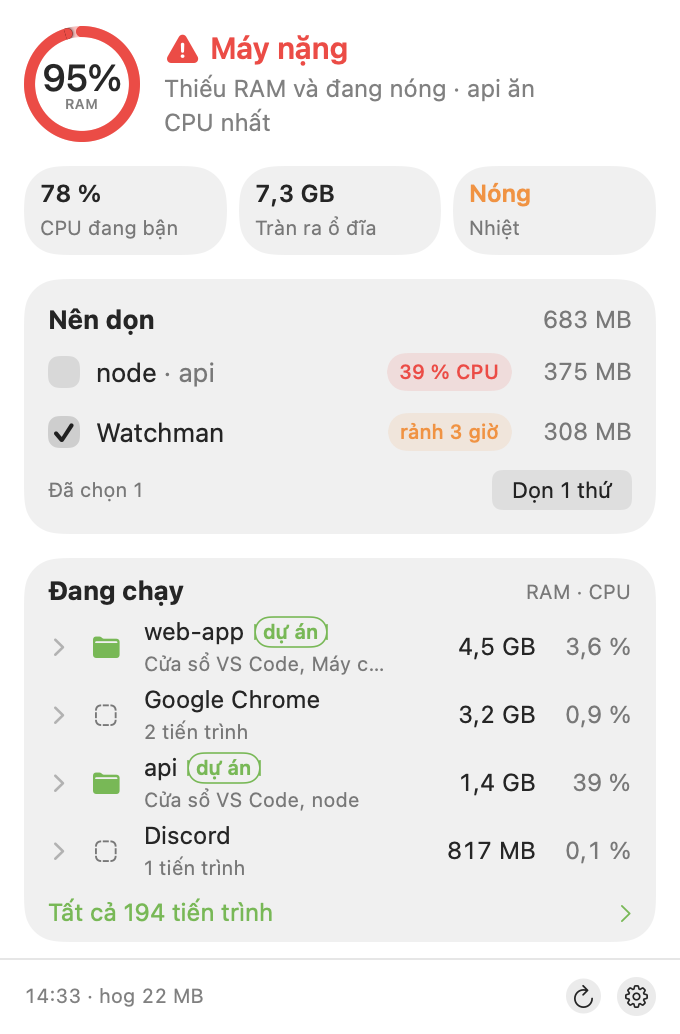
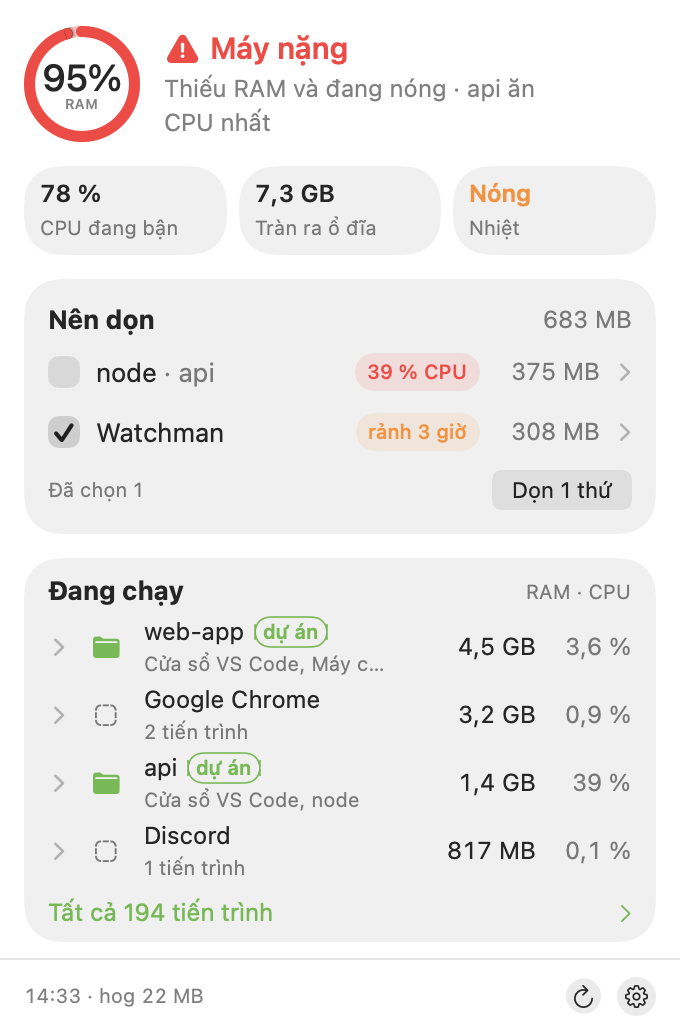
feat(app): open a suggestion to see what it is and why
- tapping a 'Nên dọn' line opens the thing: what it is (catalog), what it runs (cleaned
  like 'Copy info'), why it is suggested, what stopping does
- lines only a person closes show their reason too; 'How to close' is on the page
- nothing its parent starts again at once is suggested (VS Code's GPU process): stopping
  it frees nothing
- CPU in reason sentences is the whole machine's share, like every screen

Changed region(s): [[0.525, 0.3404, 0.9265, 0.3714], [0.5559, 0.4023, 0.9265, 0.4333]]

diff --git a/Sources/HogBar/Components.swift b/Sources/HogBar/Components.swift
@@ -101,34 +101,21 @@ struct Explanation: View {
     }
 }
 
-/// A short reason in a capsule; tapping it says the whole reason.
+/// A short reason in a capsule ("rảnh 3 giờ", "27 % CPU"); the whole reason is on the thing's page.
 struct ReasonTag: View {
-    @EnvironmentObject var model: HogModel
     let c: Overview.Cleanup
-    @State private var explain = false
 
     var body: some View {
-        Button { explain.toggle() } label: {
-            Text(c.why).font(.caption.weight(.medium)).monospacedDigit()
-                .foregroundStyle(c.whyKind == .idle ? Color.orange : Color.red)
-                .padding(.horizontal, 6).padding(.vertical, 2)
-                .background((c.whyKind == .idle ? Color.orange : Color.red).opacity(0.12), in: Capsule())
-        }
-        .buttonStyle(.plain)
-        .popover(isPresented: $explain, arrowEdge: .bottom) {
-            VStack(alignment: .leading, spacing: 6) {
-                Text(c.name).font(.headline)
-                if let f = model.snapshot?.findings.first(where: { $0.itemId == c.itemId }) {
-                    Text(f.reason)
-                    Text(f.stop.effect).foregroundStyle(.secondary)
-                }
-            }
-            .font(.callout).fixedSize(horizontal: false, vertical: true).frame(width: 280, alignment: .leading).padding(Theme.s3)
-        }
+        Text(c.why).font(.caption.weight(.medium)).monospacedDigit()
+            .foregroundStyle(c.whyKind == .idle ? Color.orange : Color.red)
+            .padding(.horizontal, 6).padding(.vertical, 2)
+            .background((c.whyKind == .idle ? Color.orange : Color.red).opacity(0.12), in: Capsule())
     }
 }
 
-/// One line of "Nên dọn": check box · name · project · reason · RAM.
+/// One line of "Nên dọn": check box (or a hand: only a person closes it) · name · project · reason · RAM · ›.
+/// Tapping the line opens the thing: what it is, what it runs, why it is suggested, what stopping does (user 2026-10-27:
+/// "nhấn vào để xem chi tiết nó đang chạy gì thì mới biết để ra quyết định có tắt hay không").
 struct CleanupRow: View {
     @EnvironmentObject var model: HogModel
     let c: Overview.Cleanup
@@ -137,24 +124,30 @@ struct CleanupRow: View {
         HStack(spacing: Theme.s2) {
             if c.manual {
                 Image(systemName: "hand.raised").foregroundStyle(.secondary).frame(width: 16)
+                    .help(model.t("Chỉ bạn đóng được thứ này — mở để xem cách đóng", "Only you can close this — open it to see how"))
             } else {
                 Toggle("", isOn: Binding(get: { model.selected.contains(c.itemId) },
                                          set: { if $0 { model.selected.insert(c.itemId) } else { model.selected.remove(c.itemId) } }))
                     .toggleStyle(.checkbox).labelsHidden()
                     .accessibilityLabel(c.name)
             }
-            Text("\(c.name)\(Text(c.project.map { " · \($0)" } ?? "").foregroundStyle(.secondary))")
-                .lineLimit(1).truncationMode(.tail)
-            Spacer(minLength: 4)
-            if c.manual {
-                Button(model.t("Cách đóng", "How to close")) { model.prepareStop(c.itemId) }.buttonStyle(.link).font(.caption)
-            } else {
-                ReasonTag(c: c)
+            Button { model.open(c) } label: {
+                HStack(spacing: Theme.s2) {
+                    Text("\(c.name)\(Text(c.project.map { " · \($0)" } ?? "").foregroundStyle(.secondary))")
+                        .lineLimit(1).truncationMode(.tail)
+                    Spacer(minLength: 4)
+                    ReasonTag(c: c)
+                    Text(c.bytes.map { Format.bytes($0, model.lang) } ?? "–").font(.callout).monospacedDigit().foregroundStyle(.secondary)
+                        .frame(minWidth: 52, alignment: .trailing)
+                    Image(systemName: "chevron.right").font(.caption2.weight(.semibold)).foregroundStyle(.tertiary)
+                }
+                .frame(minHeight: 26)
+                .contentShape(Rectangle())
             }
-            Text(c.bytes.map { Format.bytes($0, model.lang) } ?? "–").font(.callout).monospacedDigit().foregroundStyle(.secondary)
-                .frame(minWidth: 52, alignment: .trailing)
+            .buttonStyle(.plain)
+            .hoverRow()
+            .accessibilityHint(model.t("Mở để xem nó là gì và vì sao nên dọn", "Opens what it is and why to clean it up"))
         }
-        .frame(minHeight: 26)
     }
 }
 

diff --git a/Sources/HogBar/Pages.swift b/Sources/HogBar/Pages.swift
@@ -103,7 +103,7 @@ struct MainPage: View {
                 Text(model.t("Đã chọn \(n)", "\(n) selected")).font(.caption).foregroundStyle(.secondary)
                 Spacer()
                 // Opens the confirmation; the red "Dọn" that stops things is in there.
-                Button(model.t("Dọn \(n) thứ", n == 1 ? "Clean up 1" : "Clean up \(n)")) { model.prepareBatch() }
+                Button(n == 0 ? model.t("Dọn", "Clean up") : model.t("Dọn \(n) thứ", n == 1 ? "Clean up 1" : "Clean up \(n)")) { model.prepareBatch() }
                     .glassButton(prominent: true).controlSize(.small).disabled(n == 0)
             }
             .padding(.top, 2) }
@@ -163,6 +163,8 @@ struct EntryPage: View {
     @EnvironmentObject var model: HogModel
     let groupId: String
     let entryId: String
+    /// What it runs (cleaned like "Chép thông tin"); read when the page opens, not on every redraw.
+    @State private var command: String?
 
     var body: some View {
         VStack(alignment: .leading, spacing: Theme.s3) {
@@ -175,19 +177,27 @@ struct EntryPage: View {
                     }
                     Text(subtitle(g, e)).font(.callout).foregroundStyle(.secondary).fixedSize(horizontal: false, vertical: true)
                 }
+                if let what = e.summary { Text(what).font(.callout).fixedSize(horizontal: false, vertical: true) }
                 Grid(alignment: .leading, horizontalSpacing: Theme.s3, verticalSpacing: 4) {
                     row("RAM", e.bytes.map { Format.bytes($0, model.lang) } ?? "–")
                     row("CPU", e.cpu.map { Format.percent($0, model.lang) + model.t(" của cả máy", " of the machine") } ?? "–")
                     if e.pids.count > 1 { row(model.t("Tiến trình", "Processes"), "\(e.pids.count)") }
                     if let age = age(e) { row(model.t("Đã chạy", "Running for"), Format.duration(age, model.lang)) }
                     if !e.detail.isEmpty { row(model.t("Mạng", "Network"), e.detail) }
+                    if let command {
+                        GridRow(alignment: .firstTextBaseline) {
+                            Text(model.t("Lệnh", "Runs")).foregroundStyle(.secondary)
+                            Text(command).font(.caption.monospaced()).lineLimit(3).truncationMode(.tail).textSelection(.enabled)
+                        }
+                    }
                 }
                 .font(.callout)
                 .padding(Theme.s3).frame(maxWidth: .infinity, alignment: .leading).module()
                 if let f = e.itemId.flatMap({ id in model.snapshot?.findings.first { $0.itemId == id } }) {
                     VStack(alignment: .leading, spacing: 4) {
+                        Text(e.cleanup != nil ? model.t("Vì sao nên dọn", "Why clean it up") : model.t("hog thấy", "hog noticed")).font(.headline)
                         Text(f.reason)
-                        Text(f.stop.effect).foregroundStyle(.secondary)
+                        Text(model.t("Tắt thì sao: ", "If stopped: ") + f.stop.effect).foregroundStyle(.secondary)
                     }
                     .font(.callout).fixedSize(horizontal: false, vertical: true)
                 }
@@ -199,6 +209,7 @@ struct EntryPage: View {
             Spacer(minLength: 0)
         }
         .padding(Theme.s3)
+        .task(id: entryId) { command = model.entry(groupId, entryId).flatMap(model.command) }
     }
 
     func subtitle(_ g: Overview.Group, _ e: Overview.Entry) -> String {

diff --git a/Sources/HogCore/Running.swift b/Sources/HogCore/Running.swift
@@ -44,6 +44,8 @@ public struct Overview: Sendable, Equatable {
         /// Not in the catalog and not part of an app: hog does not know what it is ("?", copy info to ask).
         public var unknown: Bool
         public var cleanup: Cleanup?
+        /// What it is, in one sentence of the catalog ("Vẽ đồ hoạ bằng GPU cho mọi cửa sổ VS Code."); nil when hog does not know.
+        public var summary: String? = nil
     }
 
     public struct Group: Sendable, Equatable, Identifiable {
@@ -119,10 +121,13 @@ public struct Overview: Sendable, Equatable {
             return nil
         }
 
-        // Nên dọn: every may-stop / ask / watch finding, may-stop first, biggest first.
+        // Nên dọn: every may-stop / ask / watch finding, may-stop first, biggest first. Not what its parent starts again at once
+        // (VS Code's GPU process): stopping it gives nothing back, whatever it holds (user 2026-10-27, a "dormant-large" GPU
+        // process in the list with no reason to act on).
         let order: [Verdict] = [.mayStop, .ask, .watch]
         let procOfItem = Dictionary(s.processes.compactMap { p in p.itemId.value.map { ($0, p) } }, uniquingKeysWith: { a, _ in a })
-        let cleanups = s.findings.filter { order.contains($0.verdict) }.compactMap { f -> Cleanup? in
+        func givesBack(_ f: Finding) -> Bool { f.verdict == .mayStop || f.stop.respawns.value != .byParent }
+        let cleanups = s.findings.filter { order.contains($0.verdict) && givesBack($0) }.compactMap { f -> Cleanup? in
             guard let item = items[f.itemId] else { return nil }
             let proc = procOfItem[f.itemId]
             let project = proc?.project.value ?? ownerProject(item.ownerId.value)
@@ -169,7 +174,8 @@ public struct Overview: Sendable, Equatable {
                 detail: port.map { t("cổng \($0)", "port \($0)") } ?? "", bytes: nil, cpu: nil, pids: [], itemId: item?.id,
                 // Not in the catalog and not explained by an app (a Chrome helper is Chrome): something to ask about.
                 unknown: catalogName == nil && kind != .app && Self.isUnknownProgram(p),
-                cleanup: item.flatMap { cleanupOf[$0.id] })
+                cleanup: item.flatMap { cleanupOf[$0.id] },
+                summary: (p.catalogId.value ?? item?.catalogId.value).flatMap { catalog.entries[$0]?.summary.text(lang) })
             e.pids.append(p.pid)
             if let b = p.footprintBytes.value { e.bytes = (e.bytes ?? 0) + b }
             if let c = p.cpu.nowPct.value { e.cpu = (e.cpu ?? 0) + c }

diff --git a/Sources/HogBar/HogModel.swift b/Sources/HogBar/HogModel.swift
@@ -128,6 +128,17 @@ final class HogModel: ObservableObject {
 
     func entry(_ group: String, _ entry: String) -> Overview.Entry? { self.group(group)?.entries.first { $0.id == entry } }
 
+    /// A "Nên dọn" line was tapped: its line in "Đang chạy" (numbers, what it is, why), else its stop sheet (a container has
+    /// no process line).
+    func open(_ c: Overview.Cleanup) {
+        let match: (Overview.Entry) -> Bool = { $0.id == c.itemId || $0.itemId == c.itemId }
+        if let g = overview?.groups.first(where: { $0.entries.contains(where: match) }), let e = g.entries.first(where: match) {
+            page = .entry(group: g.id, entry: e.id)
+        } else {
+            prepareStop(c.itemId)
+        }
+    }
+
     func toggle(_ group: String) {
         if expanded.contains(group) { expanded.remove(group) } else { expanded.insert(group) }
     }
@@ -212,12 +223,19 @@ final class HogModel: ObservableObject {
 
     /// "Chép thông tin": `hog.share/1` to the clipboard, to paste into a chat with Claude. hog sends nothing.
     func copyShare(_ e: Overview.Entry) {
-        guard let scan else { return }
-        let item = e.itemId.flatMap { id in snapshot?.items.first { $0.id == id } } ?? e.pids.first.flatMap { analyzer.item(forPid: $0, in: scan) }
-        guard let item else { return }
+        guard let info = shareInfo(e) else { return }
         NSPasteboard.general.clearContents()
-        NSPasteboard.general.setString(ShareInfo.make(item, scan: scan).text(lang), forType: .string)
+        NSPasteboard.general.setString(info.text(lang), forType: .string)
         copied = e.id
+    }
+
+    /// What an entry runs, cleaned like "Chép thông tin" (no directories, users, hosts or secrets): safe in a screenshot.
+    func command(_ e: Overview.Entry) -> String? { shareInfo(e)?.item.args }
+
+    private func shareInfo(_ e: Overview.Entry) -> ShareInfo? {
+        guard let scan else { return nil }
+        let item = e.itemId.flatMap { id in snapshot?.items.first { $0.id == id } } ?? e.pids.first.flatMap { analyzer.item(forPid: $0, in: scan) }
+        return item.map { ShareInfo.make($0, scan: scan) }
     }
 
     // MARK: System detail

diff --git a/Sources/HogCore/Analyzer.swift b/Sources/HogCore/Analyzer.swift
@@ -126,7 +126,7 @@ public struct Analyzer: Sendable {
             let outcome = RuleEngine.run(rules.rules, kind: items[i].kind, facts: items[i].facts)
             items[i].protection = Measured(outcome.protection)
             guard let verdict = outcome.verdict else { continue }
-            findings.append(finding(for: items[i], outcome: outcome, verdict: verdict))
+            findings.append(finding(for: items[i], outcome: outcome, verdict: verdict, ncpu: scan.system.ncpu))
         }
         findings.sort { a, b in
             if a.verdict != b.verdict { return rank(a.verdict) > rank(b.verdict) }
@@ -325,8 +325,14 @@ public struct Analyzer: Sendable {
 
     // MARK: Findings
 
-    func finding(for item: Item, outcome: RuleEngine.Outcome, verdict: Verdict) -> Finding {
-        let reason = outcome.fired.compactMap { $0.reason.text(lang) }.map { Format.fill($0, facts: item.facts, lang: lang) }
+    func finding(for item: Item, outcome: RuleEngine.Outcome, verdict: Verdict, ncpu: Int) -> Finding {
+        // Sentences say CPU as a share of the whole machine, like every screen ("11 %", not 88 % of one core); facts and
+        // evidence keep % of one core.
+        var machine: [String: String] = [:]
+        for k in ["cpu.now_pct", "cpu.avg_pct"] {
+            if let x = item.facts[k]?.number { machine[k.replacingOccurrences(of: "_pct", with: "_machine")] = Format.percent(x / Double(max(1, ncpu)), lang) }
+        }
+        let reason = outcome.fired.compactMap { $0.reason.text(lang) }.map { Format.fill($0, facts: item.facts, extra: machine, lang: lang) }
             .joined(separator: " ")
         let used = Set(outcome.fired.flatMap(\.when.facts)).subtracting(FactNames.structural)
         let evidence = item.facts.filter { used.contains($0.key) && !$0.value.isNull }

diff --git a/Tests/HogCoreTests/OverviewTests.swift b/Tests/HogCoreTests/OverviewTests.swift
@@ -164,4 +164,22 @@ import Testing
         #expect(Ownership.appBundle("/Applications/A.app/Contents/MacOS/A") == "/Applications/A.app")
         #expect(Ownership.appName("/usr/bin/zsh") == nil)
     }
+
+    @Test func whatTheParentRestartsIsNotACleanup() {
+        func finding(_ id: String, _ v: Verdict, _ respawns: Respawns) -> Finding {
+            Finding(itemId: id, verdict: v, confidence: .high, rules: ["dormant-large"], reason: "r", evidence: [:], unmeasured: [],
+                    stop: StopAdvice(strategy: .manual, respawns: respawns, effect: "e"))
+        }
+        let items = ["gpu", "tool"].map { Item(id: $0, kind: .process, label: $0, pids: [$0 == "gpu" ? 1 : 2], footprintBytes: Measured(700_000_000)) }
+        let o = Overview.make(snapshot([proc(1, "Code Helper", mb: 700, item: "gpu"), proc(2, "tool", mb: 700, item: "tool")], items: items,
+                                       findings: [finding("gpu", .watch, .byParent), finding("tool", .watch, .never)]), catalog: catalog)
+        #expect(o.cleanups.map(\.itemId) == ["tool"], "VS Code starts its GPU process again at once: stopping it frees nothing")
+    }
+
+    @Test func entriesSayWhatTheyAre() throws {
+        let o = Overview.make(snapshot([proc(1, "watchman", mb: 300, catalogId: "watchman"), proc(2, "mystery", mb: 300)]), catalog: catalog)
+        let entries = o.groups.flatMap(\.entries)
+        #expect(try #require(entries.first { $0.name == "Watchman" }).summary?.isEmpty == false, "from the catalog")
+        #expect(try #require(entries.first { $0.name == "mystery" }).summary == nil, "unknown: no made-up sentence")
+    }
 }

diff --git a/Sources/HogBar/HogBarApp.swift b/Sources/HogBar/HogBarApp.swift
@@ -63,6 +63,10 @@ enum Renderer {
                 write(model, dir, "menu-entry-light")
             }
         }
+        if let c = model.overview?.cleanups.first(where: { $0.whyKind == .heavy }) {
+            model.open(c)
+            write(model, dir, "menu-cleanup-entry-light")
+        }
         model.page = .all
         write(model, dir, "menu-all-light")
         model.page = .main
@@ -159,7 +163,7 @@ enum Renderer {
                 finding(watchman.id, .mayStop, ["watchman-no-subscribers"],
                         vi ? "Watchman chạy 3 giờ, không công cụ nào đăng ký theo dõi." : "Watchman ran 3 hours with no tool subscribed.", .watchmanShutdown),
                 finding(node.id, hot ? .mayStop : .watch, ["cpu-heavy"],
-                        vi ? "Đang dùng \(hot ? 310 : 88) % CPU — một lý do máy nóng." : "Using \(hot ? 310 : 88) % CPU — one reason the machine is hot.", .signal),
+                        vi ? "Đang dùng \(hot ? 39 : 11) % CPU của cả máy — một lý do máy nóng." : "Using \(hot ? 39 : 11) % of the machine's CPU — one reason the machine is hot.", .signal),
             ])
     }
 

diff --git a/Tests/HogCoreTests/CPUThermalTests.swift b/Tests/HogCoreTests/CPUThermalTests.swift
@@ -68,7 +68,8 @@ import Testing
         let tool = s.items.first { $0.pids == [200] }
         let f = s.findings.first { $0.itemId == tool?.id }
         #expect(f?.verdict == .watch && f?.rules.contains("cpu-heavy") == true)
-        #expect(f?.reason.contains("95 %") == true)
+        #expect(f?.reason.contains(Format.percent(95.0 / 8, s.lang) + " of the machine") == true, "the sentence says the whole machine's share")
+        #expect(f?.evidence["cpu.now_pct"]?.number == 95, "evidence keeps % of one core")
         // Not measured (fast mode): the rule does not fire.
         let fast = analyzer.analyze(scan(thermal: .nominal, idle: nil))
         #expect(!fast.findings.contains { $0.rules.contains("cpu-heavy") })

diff --git a/Sources/HogCore/Data/Rules.swift b/Sources/HogCore/Data/Rules.swift
@@ -54,6 +54,10 @@ public enum FactNames {
         "launchd.job",
     ]
 
+    /// Placeholders a reason may use besides facts: the CPU facts as a share of the whole machine (the facts are % of one
+    /// core), so a sentence says the same number as every screen.
+    public static let derived: Set<String> = ["cpu.now_machine", "cpu.avg_machine"]
+
     /// Facts that describe what something *is*, not a measurement of use; they do not add to confidence.
     static let structural: Set<String> = ["catalog.id", "catalog.family", "catalog.detached", "owner.kind", "exe.name",
                                           "exe.system", "exe.macos", "own", "launchd.label", "launchd.job", "self.ancestor", "self.window"]

diff --git a/Tests/HogCoreTests/BundledDataTests.swift b/Tests/HogCoreTests/BundledDataTests.swift
@@ -32,7 +32,7 @@ import Testing
             for text in [r.reason.vi, r.reason.en].compactMap({ $0 }) {
                 for m in text.matches(of: placeholder) {
                     let name = String(text[m.range].dropFirst().dropLast())
-                    #expect(FactNames.all.contains(name), "rule \(r.id) uses unknown placeholder {\(name)}")
+                    #expect(FactNames.all.union(FactNames.derived).contains(name), "rule \(r.id) uses unknown placeholder {\(name)}")
                 }
             }
         }

diff --git a/docs/design/design-system.md b/docs/design/design-system.md
@@ -50,10 +50,10 @@ macos 27"*.
 | --- | --- | --- |
 | `StatusHeader` | `Gauge(.accessoryCircularCapacity)` "73% RAM" + "Máy ổn / hơi nặng / nặng / nóng" + một dòng | vòng → giải nghĩa RAM (kèm phần đã nén) |
 | `MetricChip` ×3 | CPU đang bận · Tràn ra ổ đĩa · Nhiệt | → popover giải nghĩa (thay các nút `?` cũ) |
-| Khối "Nên dọn" | `CleanupRow`: ô chọn · tên · dự án · `ReasonTag` · RAM; nút "Dọn N thứ" | lý do → popover lý do + tắt thì sao; "Dọn N thứ" → `BatchSheet` |
+| Khối "Nên dọn" | `CleanupRow`: ô chọn (hoặc ✋ khi chỉ đóng tay) · tên · dự án · `ReasonTag` · RAM · ›; nút "Dọn N thứ" | cả dòng → `EntryPage` của thứ đó (container không có dòng → hộp dừng); "Dọn N thứ" → `BatchSheet` |
 | `GroupRow` | mũi tên · icon (app thật / `folder.fill` / hệ thống) · tên · tóm tắt · RAM · CPU | mở/gập từng thứ (`EntryRow`) |
 | `EntryRow` | tên · `?` nếu chưa rõ · cổng · `×N` · RAM · CPU | → `EntryPage` |
-| `EntryPage` | số đo, lý do (nếu có đề xuất), "Chép thông tin" (nút chính khi chưa rõ), "Dừng…"/"Cách đóng" (không có ở dòng `×N`) | |
+| `EntryPage` | tên · thuộc đâu · **là gì** (câu của danh mục) · số đo + **Lệnh** (đã làm sạch như "Chép thông tin", chụp gửi được) · **Vì sao nên dọn** + "Tắt thì sao" · "Chép thông tin" (nút chính khi chưa rõ), "Dừng…"/"Cách đóng" (không có ở dòng `×N`) | |
 | `AllPage` | ô tìm + mọi nhóm, mọi thứ; "macOS và hệ thống" → Đo chi tiết | |
 | `BatchSheet` / `StopSheet` | hộp kính (`rSheet`) trên nền tối mờ; tiêu đề có RAM lấy lại; từng thứ: an toàn / hỏi trước (kèm lý do của cổng) / bị chặn | |
 | `Footer` | giờ quét · RAM của hog · `arrow.clockwise` · `gearshape` | |
@@ -65,7 +65,8 @@ macos 27"*.
 - Trạng thái: nặng = áp lực đỏ hoặc nhiệt rất nóng; hơi nặng = áp lực vàng; nóng = nhiệt nóng; "ổn, CPU bận" = CPU cả máy ≥ 80 %.
   Dòng phụ: lý do khi không ổn; khi ổn là việc nên làm ("2 thứ nên dọn · lấy lại 683 MB") hoặc "Không có gì cần dọn".
 - "Nên dọn": có thể tắt (chọn sẵn), hỏi trước và ăn nhiều (chưa chọn); thứ chỉ đóng tay (phiên Claude) có "Cách đóng" thay ô chọn.
-  Lý do tối đa 3 chữ ("rảnh 3 giờ", "22 % CPU", "hay bị sập").
+  Lý do tối đa 3 chữ ("rảnh 3 giờ", "22 % CPU", "hay bị sập"). Không đưa vào thứ mà app cha bật lại ngay (`respawns: by-parent`, trừ
+  `may-stop`): tắt không lấy lại được gì (chủ dự án 2026-10-27, tiến trình GPU của VS Code nằm trong "Nên dọn").
   Không có gì → không có khối. Chỉ có thứ đóng tay → không có nút "Dọn".
 - "Dọn N thứ": một hộp xác nhận cho cả nhóm; mỗi thứ vẫn qua đủ cổng an toàn; thứ bị chặn được liệt kê nhưng không chạy; buộc tắt
   (SIGKILL) không bao giờ nằm trong nhóm — phải mở riêng.
